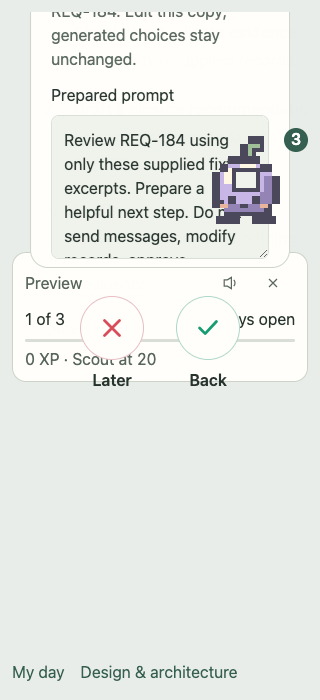
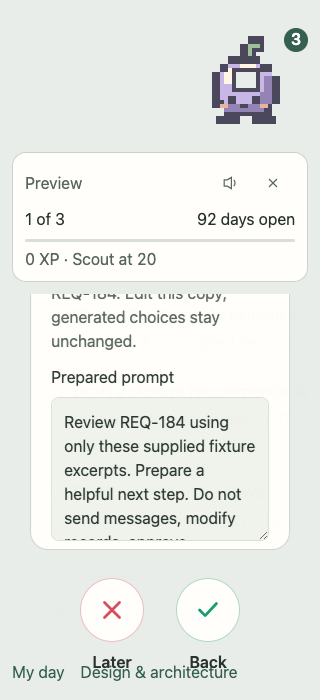
Record hosted verification and remove temporary touch diagnostics

diff --git a/docs/CI.md b/docs/CI.md
@@ -117,10 +117,18 @@ npm install --ignore-scripts
 
 Observed: user `i098`; initial repository 404; created repository confirmed private; Sentrux 0.5.7; 249 npm packages installed. No credentials were written to repository docs. Initial npm engine warning reflected Node26 versus the first proposed strict Node24 range; package support now allows Node24 and newer while CI remains on Node24.
 
[2 lines of base64/hex data omitted]
 
 ## Hosted execution receipts
 
 The first [hosted run 40022399641](https://github.com/i098/open-loops/actions/runs/40022399641) completed with failure: Detect, Format, Lint, and Sentrux passed; browser/policy job failed on one of nine browser tests; `PR gate` failed and preview delivery correctly skipped. The [failure trace artifact](https://github.com/i098/open-loops/actions/runs/40022399641/artifacts/12530638418) is diagnostic evidence, not a delivered preview.
 
-The trace shows the next buddy tap resolving while `aria-expanded` was still `true` after Close's touch action returned. The test now waits for the observable hidden dialog before tapping to reopen. It still uses real touch input and verifies preserved snooze/mute state; no sleep, force-click, retry, or skip was added. That test-only correction left source `5dd26847…` unchanged. Later user-reported placement/bounce bugs were fixed in source `82d02fd3…` and checked separately. Current hosted results must come from the actual [PR checks](https://github.com/i098/open-loops/pull/1/checks), not local inference.
+The initial hidden-dialog wait exposed missing native click delivery rather than resolving it. Keeping the CDP session attached and deferring touched-node replacement also did not resolve it. Telemetry then matched [Chromium issue 407890253](https://issues.chromium.org/issues/407890253): a rapid swipe can create a phantom fling, consuming the next tap without generating a click even under restrictive `touch-action`. The final app cancels native `touchmove` only after horizontal drag lock, for one touch and a cancelable event. Vertical scrolling before lock, multitouch, and ordinary taps keep their defaults. No synthetic click, forced action, sleep, skipped test, or added retry was introduced. Temporary diagnostics were removed after hosted proof.
+
+### Successful full run and artifact
+
+[Run 40026326590](https://github.com/i098/open-loops/actions/runs/40026326590) completed successfully for PR head `45e06fec2866d98f87411a2b58e1951aa4e32cb3`: Detect, Format, Lint, Browser and CI behavior (9 browser paths and 13 policy/import tests), Sentrux, `PR gate`, and Downloadable preview bundle all succeeded.
+
+[Artifact 12533246114](https://github.com/i098/open-loops/actions/runs/40026326590/artifacts/12533246114), `open-loops-preview-4082d5667fc850d7b53f60f66fb00d5d5f8a1f00`, was uploaded only after the gate. It is 814410 bytes and expires 2026-11-22. GitHub's artifact ZIP digest is `sha256:ded4774595d46e19d6f51759a423205ca4856c51024af150af3f30666b6047a4`.
+
+The downloaded archive was opened and all 31 manifest file hashes matched. Its manifest commit is the PR merge-ref commit `4082d5667fc850d7b53f60f66fb00d5d5f8a1f00`, not the branch-head SHA. The final receipt/diagnostic-cleanup head is verified separately through the [current PR checks](https://github.com/i098/open-loops/pull/1/checks), without recursively committing each new run ID.

diff --git a/docs/verification/local-checks.md b/docs/verification/local-checks.md
@@ -4,7 +4,7 @@ This report covers the transformed `previews/` files, not an earlier `.lavish` r
 
 ## Verified source identity
 
[4 lines of base64/hex data omitted]
 
@@ -18,7 +18,7 @@ HTML imports extract executable JS/CSS, rebase relative CSS URLs, retain executi
 | `npm run format:check`  | Pass                                                                                                   |
 | `npm run lint`          | ESLint, HTML validation, Stylelint, Markdownlint pass                                                  |
 | `npm test`              | 13 policy/import tests pass; zero skipped                                                              |
-| `npm run test:ui`       | All 9 Chromium tests pass in 12.5 seconds; zero skipped/retried                                        |
+| `npm run test:ui`       | All 9 Chromium tests pass in 12.8 seconds; zero skipped/retried                                        |
 | `npm run check:sentrux` | Sentrux 0.5.7: all 3 strict rules pass; 3 application JS / 12 total first-party JS files; quality 6840 |
 | `npm run bundle`        | Created `dist/open-loops-preview.tar.gz` with per-file SHA-256 manifest                                |
 
@@ -34,7 +34,7 @@ Local runtime: Node v26.12.1, npm 11.20.0. Hosted CI uses Node 24; local success
 
 ## Findings resolved
 
-The first hosted Linux run found a test event-completion race: after a real Close tap returned, the next buddy tap resolved while the dialog was still open. The test now waits for the observable hidden dialog before reopening, without changing input type or adding sleeps, forced clicks, retries, or skips. That fix changed only test synchronization, not the product source.
+Hosted Linux exposed a missing native click after fast swipes. The hidden-dialog wait, retained CDP session, and deferred DOM replacement did not resolve it. Bounded telemetry showed normal pointer/touch delivery but no synthesized Close click, matching [Chromium's phantom-fling defect](https://issues.chromium.org/issues/407890253). A scoped non-passive `touchmove` listener cancels defaults only after horizontal lock with one touch and a cancelable event. The same real swipe/Close/reopen test then passed on hosted Chromium. No synthetic event, arbitrary sleep, force-click, retry, or weakened assertion was added. Temporary telemetry is removed.
 
 Earlier full runs exposed a fast buddy-drag capture bug and missing Back while a source receipt was pending. The canonical owner acquired pointer capture on pointerdown, retained the 8px threshold and up/cancel release, and made parent return independent of action-busy guards. History-aware return also covers activity. Async identity guards remain intact.
 
@@ -44,7 +44,7 @@ The test suite was updated for the user's superseding contract: large cards, no 
 
 ## Independent browser evidence
 
-After the final import and gates, a separate delivery-owned browser tab loaded the transformed preview with motion enabled. A deliberate open drop at `(698.5,112)` stayed at exactly those coordinates after close and reopen; the art had zero animations. It measured a 320×448 desktop front face and 260×364 at 320×700. The prefilled prompt and external controls remained usable. Earlier independent inspection also covered the unchanged My day synthetic timeline and source provenance.
+A separate delivery-owned browser inspected the final imported input-fix revision with motion enabled and recaptured the desktop, prefilled prompt, and 320×700 views; the narrow face measured 260×364 and external controls remained reachable. The earlier independent motion inspection measured a 320×448 desktop face and an open drop at `(698.5,112)` unchanged across close/reopen with zero art animations. Current automated regressions separately verify that retained behavior. My day's unchanged synthetic timeline and provenance were also inspected independently.
 
 Imported-copy screenshots: [desktop](../images/imported-desktop.png), [prompt](../images/imported-prompt.png), [320px card](../images/imported-mobile.png), [320px controls after scrolling](../images/imported-mobile-controls.png).
 

diff --git a/README.md b/README.md
@@ -51,6 +51,8 @@ The browser suite exercises rendered interactions, not source-text markers. Sent
 
 Repository: [i098/open-loops](https://github.com/i098/open-loops). [Draft PR #1](https://github.com/i098/open-loops/pull/1) publishes the verified previews and plans from `feat/verified-previews-ci`; it is not merged. The repository was created private, but a later API read returned `private: false`, `visibility: public`. That unexpected external change was reported and preserved; this workstream did not change visibility. No automatic merge or hosted deployment is authorized.
 
+Verified [full hosted run](https://github.com/i098/open-loops/actions/runs/40026326590) and [downloadable preview artifact](https://github.com/i098/open-loops/actions/runs/40026326590/artifacts/12533246114). Source hashes and current local checks are in [verification](docs/verification/local-checks.md); this is a browser preview, not a hosted deployment.
+
 Every PR and main push runs path detection and the stable **PR gate**. Relevant formatting, lint, browser/policy tests, and Sentrux must succeed; irrelevant jobs may skip. Changes to packaged inputs create a downloadable review artifact on PRs and a continuous-delivery artifact on main. Unrelated changes do not rebuild the preview.
 
 **Main is protected:** the exact `PR gate` context is required, branches must be up to date, administrators are included, and changes require a PR with zero human approvals. The policy was applied after a GET confirmed no existing protection and then verified by GET. No extra reviewer policy, auto-merge, or visibility change was introduced.
